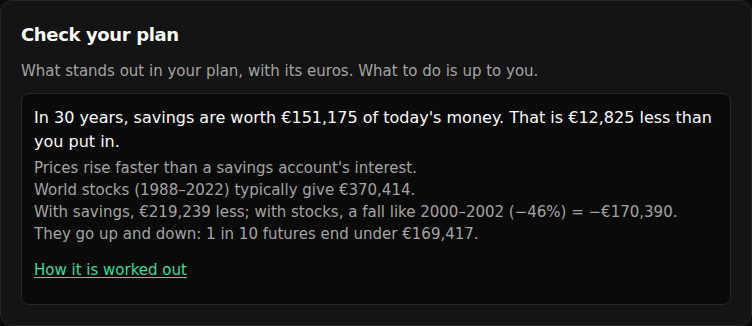
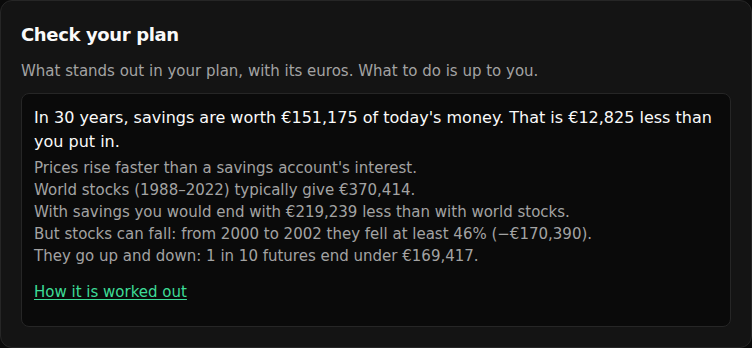
Wealth Lens: savings check in two short sentences
What savings give up against world stocks, then stocks' worst fall in
the yearly data, each in its own sentence of at most 12 words: "With
savings you would end with €219,239 less than with world stocks." and
"But stocks can fall: from 2000 to 2002 they fell at least 46%
(−€170,390)." "At least" because the data are yearly; How it works and
research/wealth-lens/chequeo.md say that within a year the fall may have
been deeper. The plain-language test checks both sentences in EN and ES,
over several years and over one.

Claude-Session: https://claude.ai/code/session_01BcV4Bj22BrAC8vej9vmEnb

diff --git a/projects/wealth-lens/src/i18n/messages/es.ts b/projects/wealth-lens/src/i18n/messages/es.ts
@@ -122,7 +122,7 @@ export const es: Messages = {
           "Bajo el resultado, hasta tres observaciones, solo cuando aplican. Cada una con sus euros. Dicen lo que hay, nunca qué hacer.",
           "Pocos años: los años de tu plan, o una meta, a menos de 5 años, con dinero que sube y baja. Cuenta cuántos de los 1000 futuros posibles acaban por debajo de lo que pones hasta entonces. Sale desde 1 de cada 10. [El método](research:wealth-lens/chequeo.md#horizonte-frente-a-riesgo).",
           "Una acción: una empresa con más de un quinto de tu mezcla o de Mi cartera, sin contar los fondos indexados. Da sus euros y su peor caída desde un máximo, sobre tu dinero. [El método](research:wealth-lens/chequeo.md#concentración).",
-          "Ahorro durante 10 años o más: lo que conserva la cuenta en dinero de hoy, frente a lo que pones. Y frente a las acciones del mundo, con las mismas cantidades: lo que se deja de ganar y su peor caída. [El método](research:wealth-lens/chequeo.md#ahorro-a-largo-plazo).",
+          "Ahorro durante 10 años o más: lo que conserva la cuenta en dinero de hoy, frente a lo que pones. Y frente a las acciones del mundo, con las mismas cantidades: lo que se deja de ganar y su peor caída. Esa caída sale de datos anuales: dentro de cada año pudo ser mayor. [El método](research:wealth-lens/chequeo.md#ahorro-a-largo-plazo).",
         ],
       },
       {
@@ -1118,7 +1118,10 @@ export const es: Messages = {
       more: (amount: string) => `Son ${amount} más de lo que pones.`,
       why: "Los precios suben más que el interés del ahorro.",
       world: (period: string, typical: string) => `Las acciones del mundo (${period}) suelen dar ${typical}.`,
-      bothSides: (less: string, years: string, fall: string, amount: string) => `Con Ahorro, ${less} menos; con acciones, caer como en ${years} (${fall}) = ${amount}.`,
+      savingsLess: (less: string) => `Con Ahorro terminarías con ${less} menos que con acciones del mundo.`,
+      stocksFall: (when: string, fall: string, amount: string) => `Pero las acciones pueden caer: ${when} cayeron al menos un ${fall} (${amount}).`,
+      fallBetween: (from: number, to: number) => `entre ${from} y ${to}`,
+      fallIn: (year: number) => `en ${year}`,
       worldBad: (bad: string) => `Suben y bajan: 1 de cada 10 futuros acaba por debajo de ${bad}.`,
     },
   },

diff --git a/projects/wealth-lens/src/i18n/messages/en.ts b/projects/wealth-lens/src/i18n/messages/en.ts
@@ -126,7 +126,7 @@ export const en = {
           "Under the result, up to three observations, only when they apply. Each has its euros. They say what is, never what to do.",
           "Few years: your plan's years, or a goal, under 5 years away, and money that goes up and down. It counts how many of the 1,000 possible futures end below what you put in by then. It shows from 1 in 10. [The method](research:wealth-lens/chequeo.md#horizonte-frente-a-riesgo).",
           "One stock: one company over a fifth of your mix or of My portfolio, index funds aside. It gives its euros and its worst fall from a peak, on your money. [The method](research:wealth-lens/chequeo.md#concentración).",
-          "Savings for 10 years or more: what the account keeps in today's money, against what you put in. And against world stocks, with the same amounts: what it gives up, and their worst fall. [The method](research:wealth-lens/chequeo.md#ahorro-a-largo-plazo).",
+          "Savings for 10 years or more: what the account keeps in today's money, against what you put in. And against world stocks, with the same amounts: what it gives up, and their worst fall. That fall comes from yearly data: within a year it may have been deeper. [The method](research:wealth-lens/chequeo.md#ahorro-a-largo-plazo).",
         ],
       },
       {
@@ -1152,7 +1152,11 @@ export const en = {
       more: (amount: string) => `That is ${amount} more than you put in.`,
       why: "Prices rise faster than a savings account's interest.",
       world: (period: string, typical: string) => `World stocks (${period}) typically give ${typical}.`,
-      bothSides: (less: string, years: string, fall: string, amount: string) => `With savings, ${less} less; with stocks, a fall like ${years} (${fall}) = ${amount}.`,
+      savingsLess: (less: string) => `With savings you would end with ${less} less than with world stocks.`,
+      /** "At least": the data is yearly; within a year the fall may have been deeper. */
+      stocksFall: (when: string, fall: string, amount: string) => `But stocks can fall: ${when} they fell at least ${fall} (${amount}).`,
+      fallBetween: (from: number, to: number) => `from ${from} to ${to}`,
+      fallIn: (year: number) => `in ${year}`,
       worldBad: (bad: string) => `They go up and down: 1 in 10 futures end under ${bad}.`,
     },
   },

diff --git a/projects/wealth-lens/src/lib/plan-check.test.ts b/projects/wealth-lens/src/lib/plan-check.test.ts
@@ -213,9 +213,20 @@ describe("Check your plan", () => {
     const { lead, details } = checkWords(check, EN);
     expect(lead).toEqual(["In 30 years, savings are worth €151,175 of today's money.", "That is €12,825 less than you put in."]);
     expect(details).toContain("World stocks (1988–2022) typically give €370,415.");
-    // Both sides in one sentence: what savings give up, and the worst fall world stocks had, on the same plan's money (46% of €370,415).
-    expect(details).toContain("With savings, €219,240 less; with stocks, a fall like 2000–2002 (−46%) = −€170,391.");
-    expect(checkWords(check, ES).details).toContain("Con Ahorro, 219.240\u00a0€ menos; con acciones, caer como en 2000–2002 (\u221246\u00a0%) = \u2212170.391\u00a0€.");
+    // Both sides, in two short sentences: what savings give up, then the worst fall world stocks had, on the same plan's money (46% of €370,415).
+    // "At least": the data is yearly, so within a year it may have fallen further.
+    const both = ["With savings you would end with €219,240 less than with world stocks.", "But stocks can fall: from 2000 to 2002 they fell at least 46% (−€170,391)."];
+    expect(details.slice(details.indexOf(both[0]), details.indexOf(both[0]) + 2)).toEqual(both);
+    expect(checkWords(check, ES).details).toEqual(
+      expect.arrayContaining([
+        "Con Ahorro terminarías con 219.240\u00a0€ menos que con acciones del mundo.",
+        "Pero las acciones pueden caer: entre 2000 y 2002 cayeron al menos un 46\u00a0% (\u2212170.391\u00a0€).",
+      ]),
+    );
+    // A fall within one calendar year is said with its year.
+    const one: PlanCheck = { ...check, world: { ...check.world, fall: { drop: 0.4076, from: 2008, to: 2008 } } };
+    expect(checkWords(one, EN).details).toContain("But stocks can fall: in 2008 they fell at least 41% (−€151,870).");
+    expect(checkWords(one, ES).details).toContain("Pero las acciones pueden caer: en 2008 cayeron al menos un 41\u00a0% (\u2212151.870\u00a0€).");
   });
 
   it("gives the last 12 months as where its euros came from, so the percent can be checked by eye", () => {

diff --git a/projects/wealth-lens/src/i18n/check-text.ts b/projects/wealth-lens/src/i18n/check-text.ts
@@ -51,15 +51,17 @@ export function checkWords(check: PlanCheck, i18n: I18n): CheckWords {
       const [total, putIn, typical] = [check.total, check.putIn, check.world.typical].map(Math.round);
       const { world } = check;
       const lead = [t.keeps(m.units.years(check.years), f.eur(total)), total < putIn ? t.less(f.eur(putIn - total)) : t.more(f.eur(total - putIn))];
-      // Both sides in one sentence: what savings give up, and world stocks' worst fall on the money they typically reach.
-      const drop = world.fall ? Math.round(world.fall.drop * 100) / 100 : null;
-      const years = world.fall ? (world.fall.from === world.fall.to ? String(world.fall.from) : `${world.fall.from}–${world.fall.to}`) : "";
-      const details = [
-        ...(total < putIn ? [t.why] : []),
-        t.world(periodText(world), f.eur(typical)),
-        ...(world.fall && drop !== null && typical > total ? [t.bothSides(f.eur(typical - total), years, f.percent(-drop, { decimals: 0 }), f.eur(-typical * drop, { signed: true }))] : []),
-        t.worldBad(f.eur(world.bad)),
-      ];
+      // Both sides, one short sentence each: what savings give up, then world stocks' worst fall on the money they typically reach.
+      const { fall } = world;
+      const drop = fall ? Math.round(fall.drop * 100) / 100 : null;
+      const sides =
+        fall && drop !== null && typical > total
+          ? [
+              t.savingsLess(f.eur(typical - total)),
+              t.stocksFall(fall.from === fall.to ? t.fallIn(fall.from) : t.fallBetween(fall.from, fall.to), f.percent(drop, { decimals: 0 }), f.eur(-typical * drop, { signed: true })),
+            ]
+          : [];
+      const details = [...(total < putIn ? [t.why] : []), t.world(periodText(world), f.eur(typical)), ...sides, t.worldBad(f.eur(world.bad))];
       return { lead, details };
     }
   }

diff --git a/research/wealth-lens/chequeo.md b/research/wealth-lens/chequeo.md
@@ -99,9 +99,9 @@ y con su índice en su lugar sigue en *Para tener en cuenta*.
 **En palabras:** una cuenta de ahorro no sube ni baja, pero con los años
 los precios suben más que su interés. La app dice cuánto vale lo ahorrado
 en euros de hoy, frente a lo puesto y frente a lo que habrían dado las
-acciones del mundo con las mismas cantidades. Las dos caras van en la
-misma frase: lo que el ahorro deja de ganar y la peor caída de las
-acciones en los datos sobre ese dinero. Después, su caso malo.
+acciones del mundo con las mismas cantidades. Las dos caras van seguidas,
+una frase corta cada una: lo que el ahorro deja de ganar, y la peor caída
+de las acciones en los datos sobre ese dinero. Después, su caso malo.
 
 **Cuándo:** el plan invierte en Ahorro y mira 10 años o más.
 
@@ -115,13 +115,17 @@ plan* que cubren los datos del Mundo: 2000–2002, −46 % después de la
 subida de precios (de fin de 1999 a fin de 2002; 2008 fue −41 %). Se
 aplica a lo que dan típicamente al final, cuando más dinero hay: lo más
 que puede quitar una caída así. Como en todo el chequeo, los euros salen
-del porcentaje y de la cifra tal como se ven (46 % de 185.207 €).
+del porcentaje y de la cifra tal como se ven (46 % de 185.207 €). Los
+datos son anuales (de fin de año a fin de año): dentro de cada año la
+caída pudo ser mayor, y por eso la frase dice "al menos".
 
 **Ejemplo:** 10.000 € y 200 € al mes durante 30 años: "En 30 años, el
 ahorro vale 75.587 € de hoy. Son 6413 € menos de lo que pones. Las
-acciones del mundo (1988–2022) suelen dar 185.207 €. Con Ahorro, 109.620 €
-menos; con acciones, caer como en 2000–2002 (−46 %) = −85.195 €. Suben y
-bajan: 1 de cada 10 futuros acaba por debajo de 84.709 €."
+acciones del mundo (1988–2022) suelen dar 185.207 €. Con Ahorro
+terminarías con 109.620 € menos que con acciones del mundo. Pero las
+acciones pueden caer: entre 2000 y 2002 cayeron al menos un 46 %
+(−85.195 €). Suben y bajan: 1 de cada 10 futuros acaba por debajo de
+84.709 €."
 
 ## Cómo se redacta
 
@@ -209,4 +213,5 @@ caída y cambio de 12 meses).
 - 2026-10-07 (2): a petición de Marek, la observación del Ahorro dice en
   una sola frase sus dos caras: lo que el ahorro deja de ganar frente a
   las acciones del mundo y la peor caída de estas (2000–2002) sobre ese
-  dinero.
+  dinero. Después, a petición de Marek, en dos frases cortas, con "al
+  menos" porque los datos son anuales.
